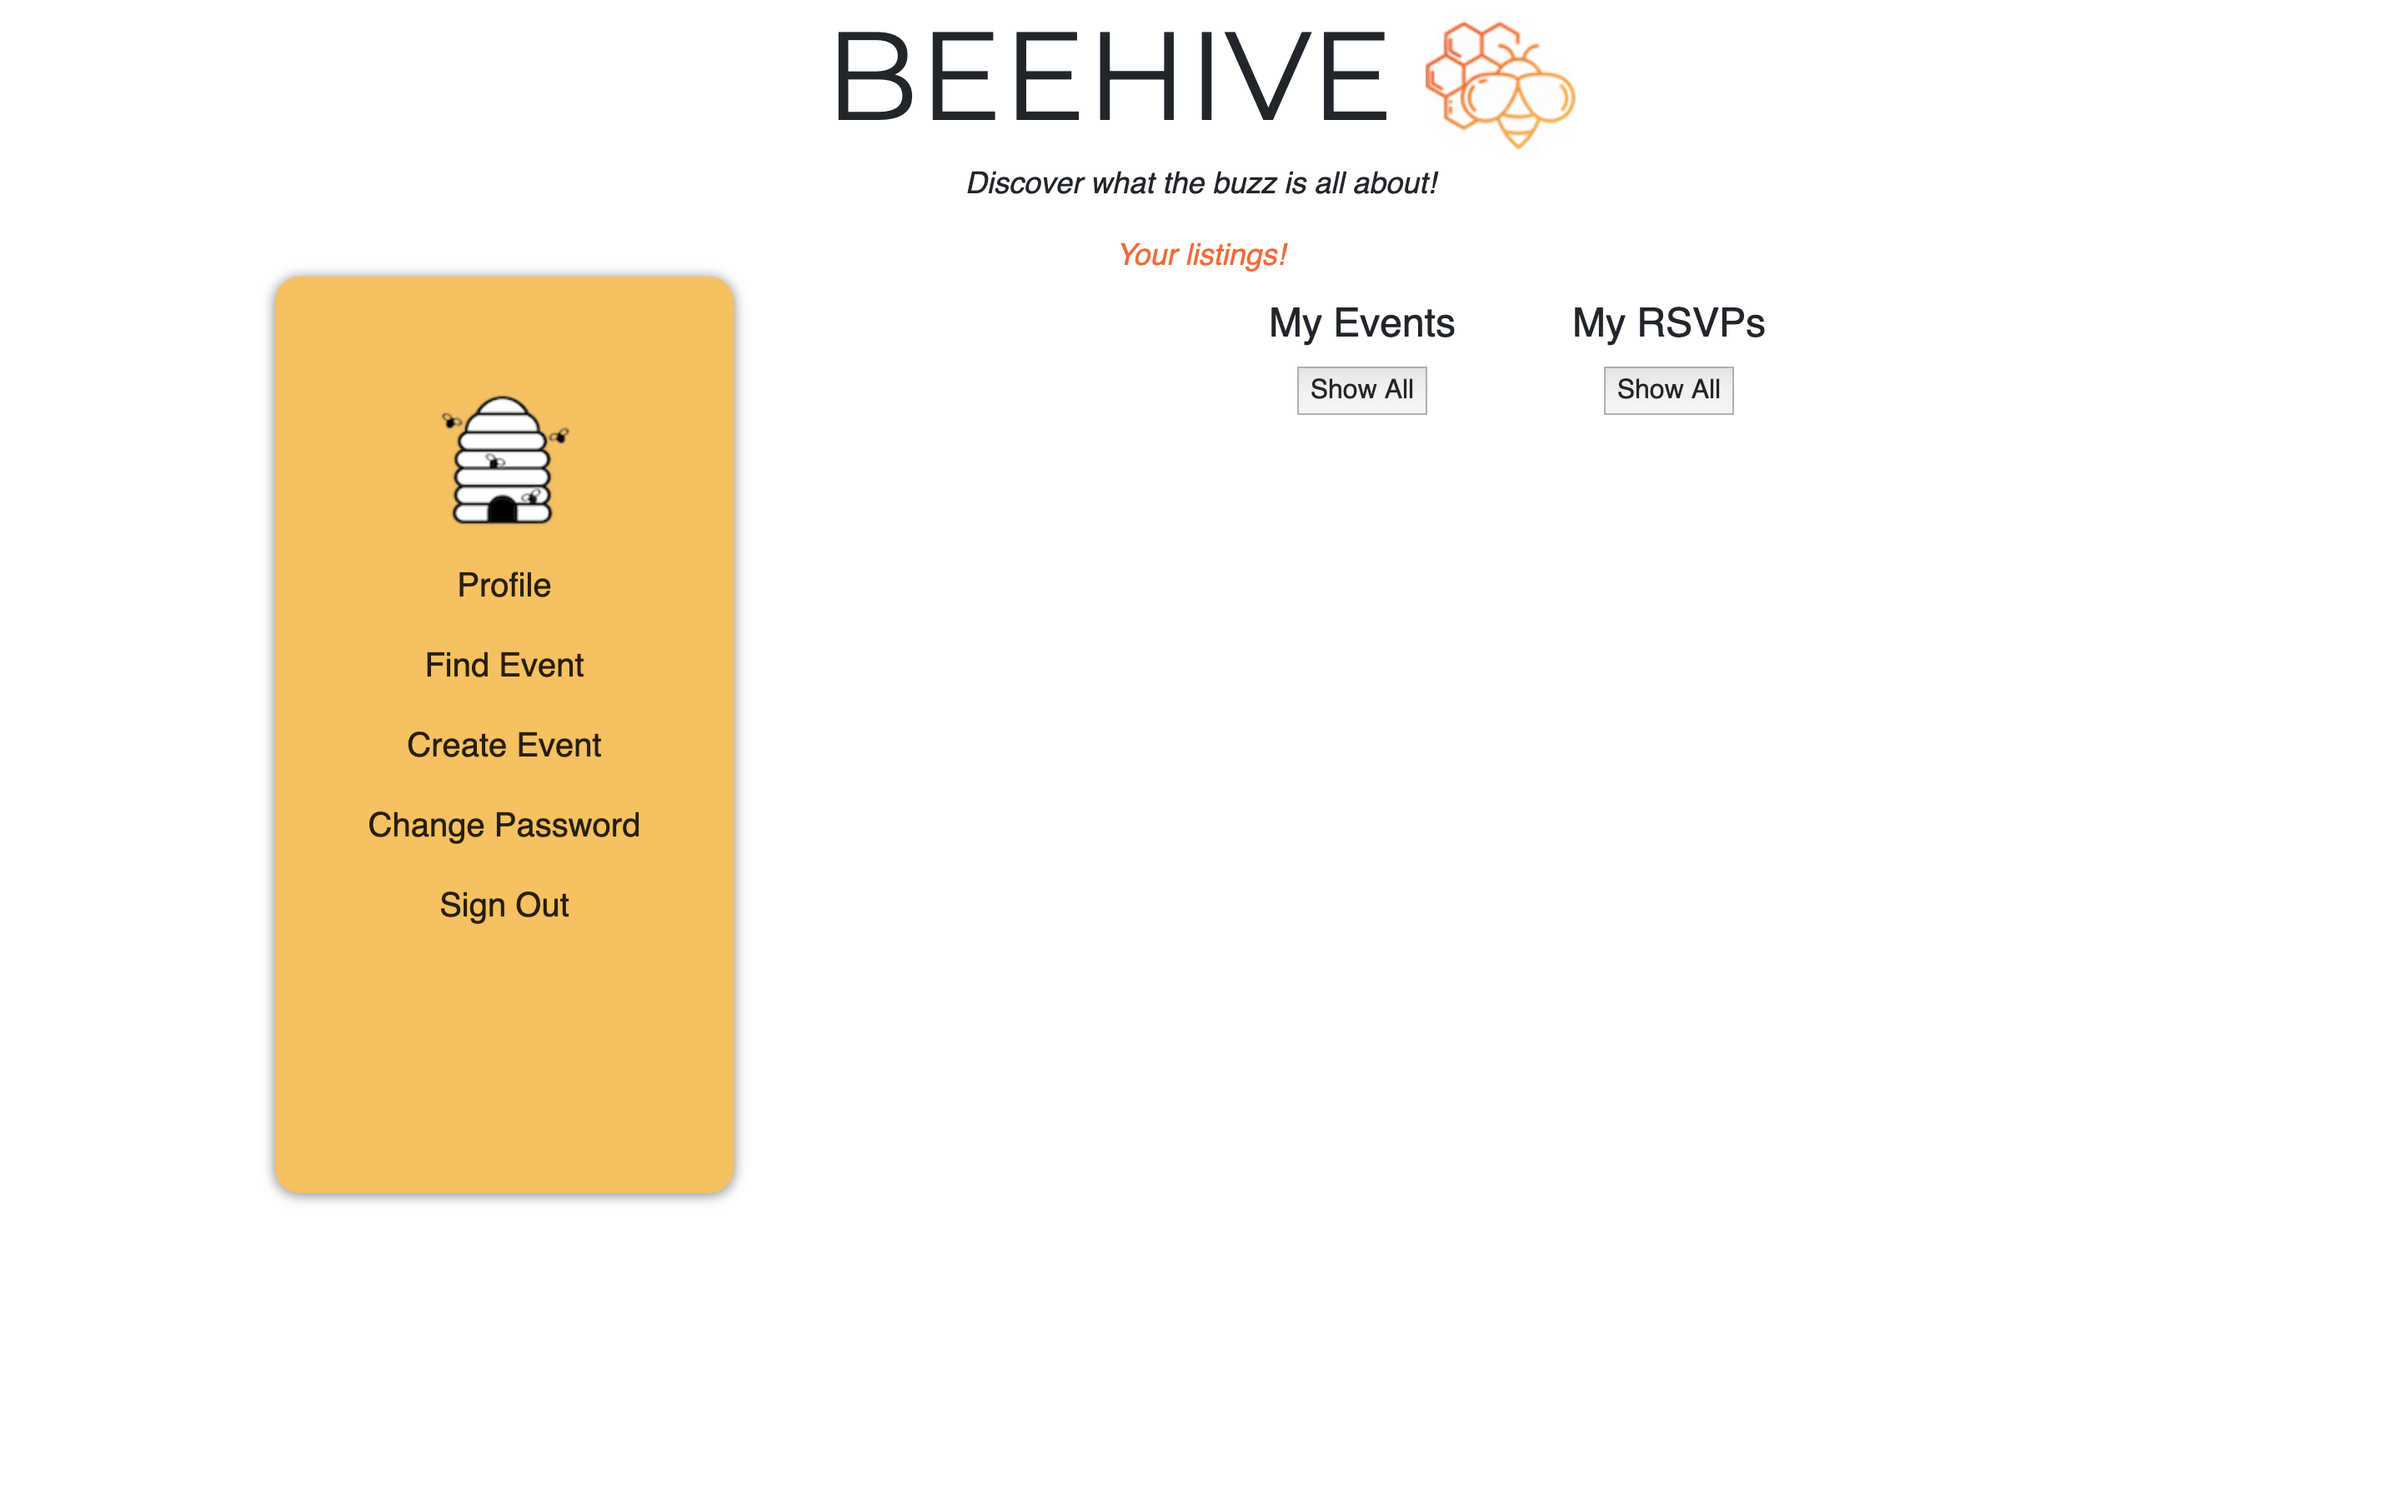
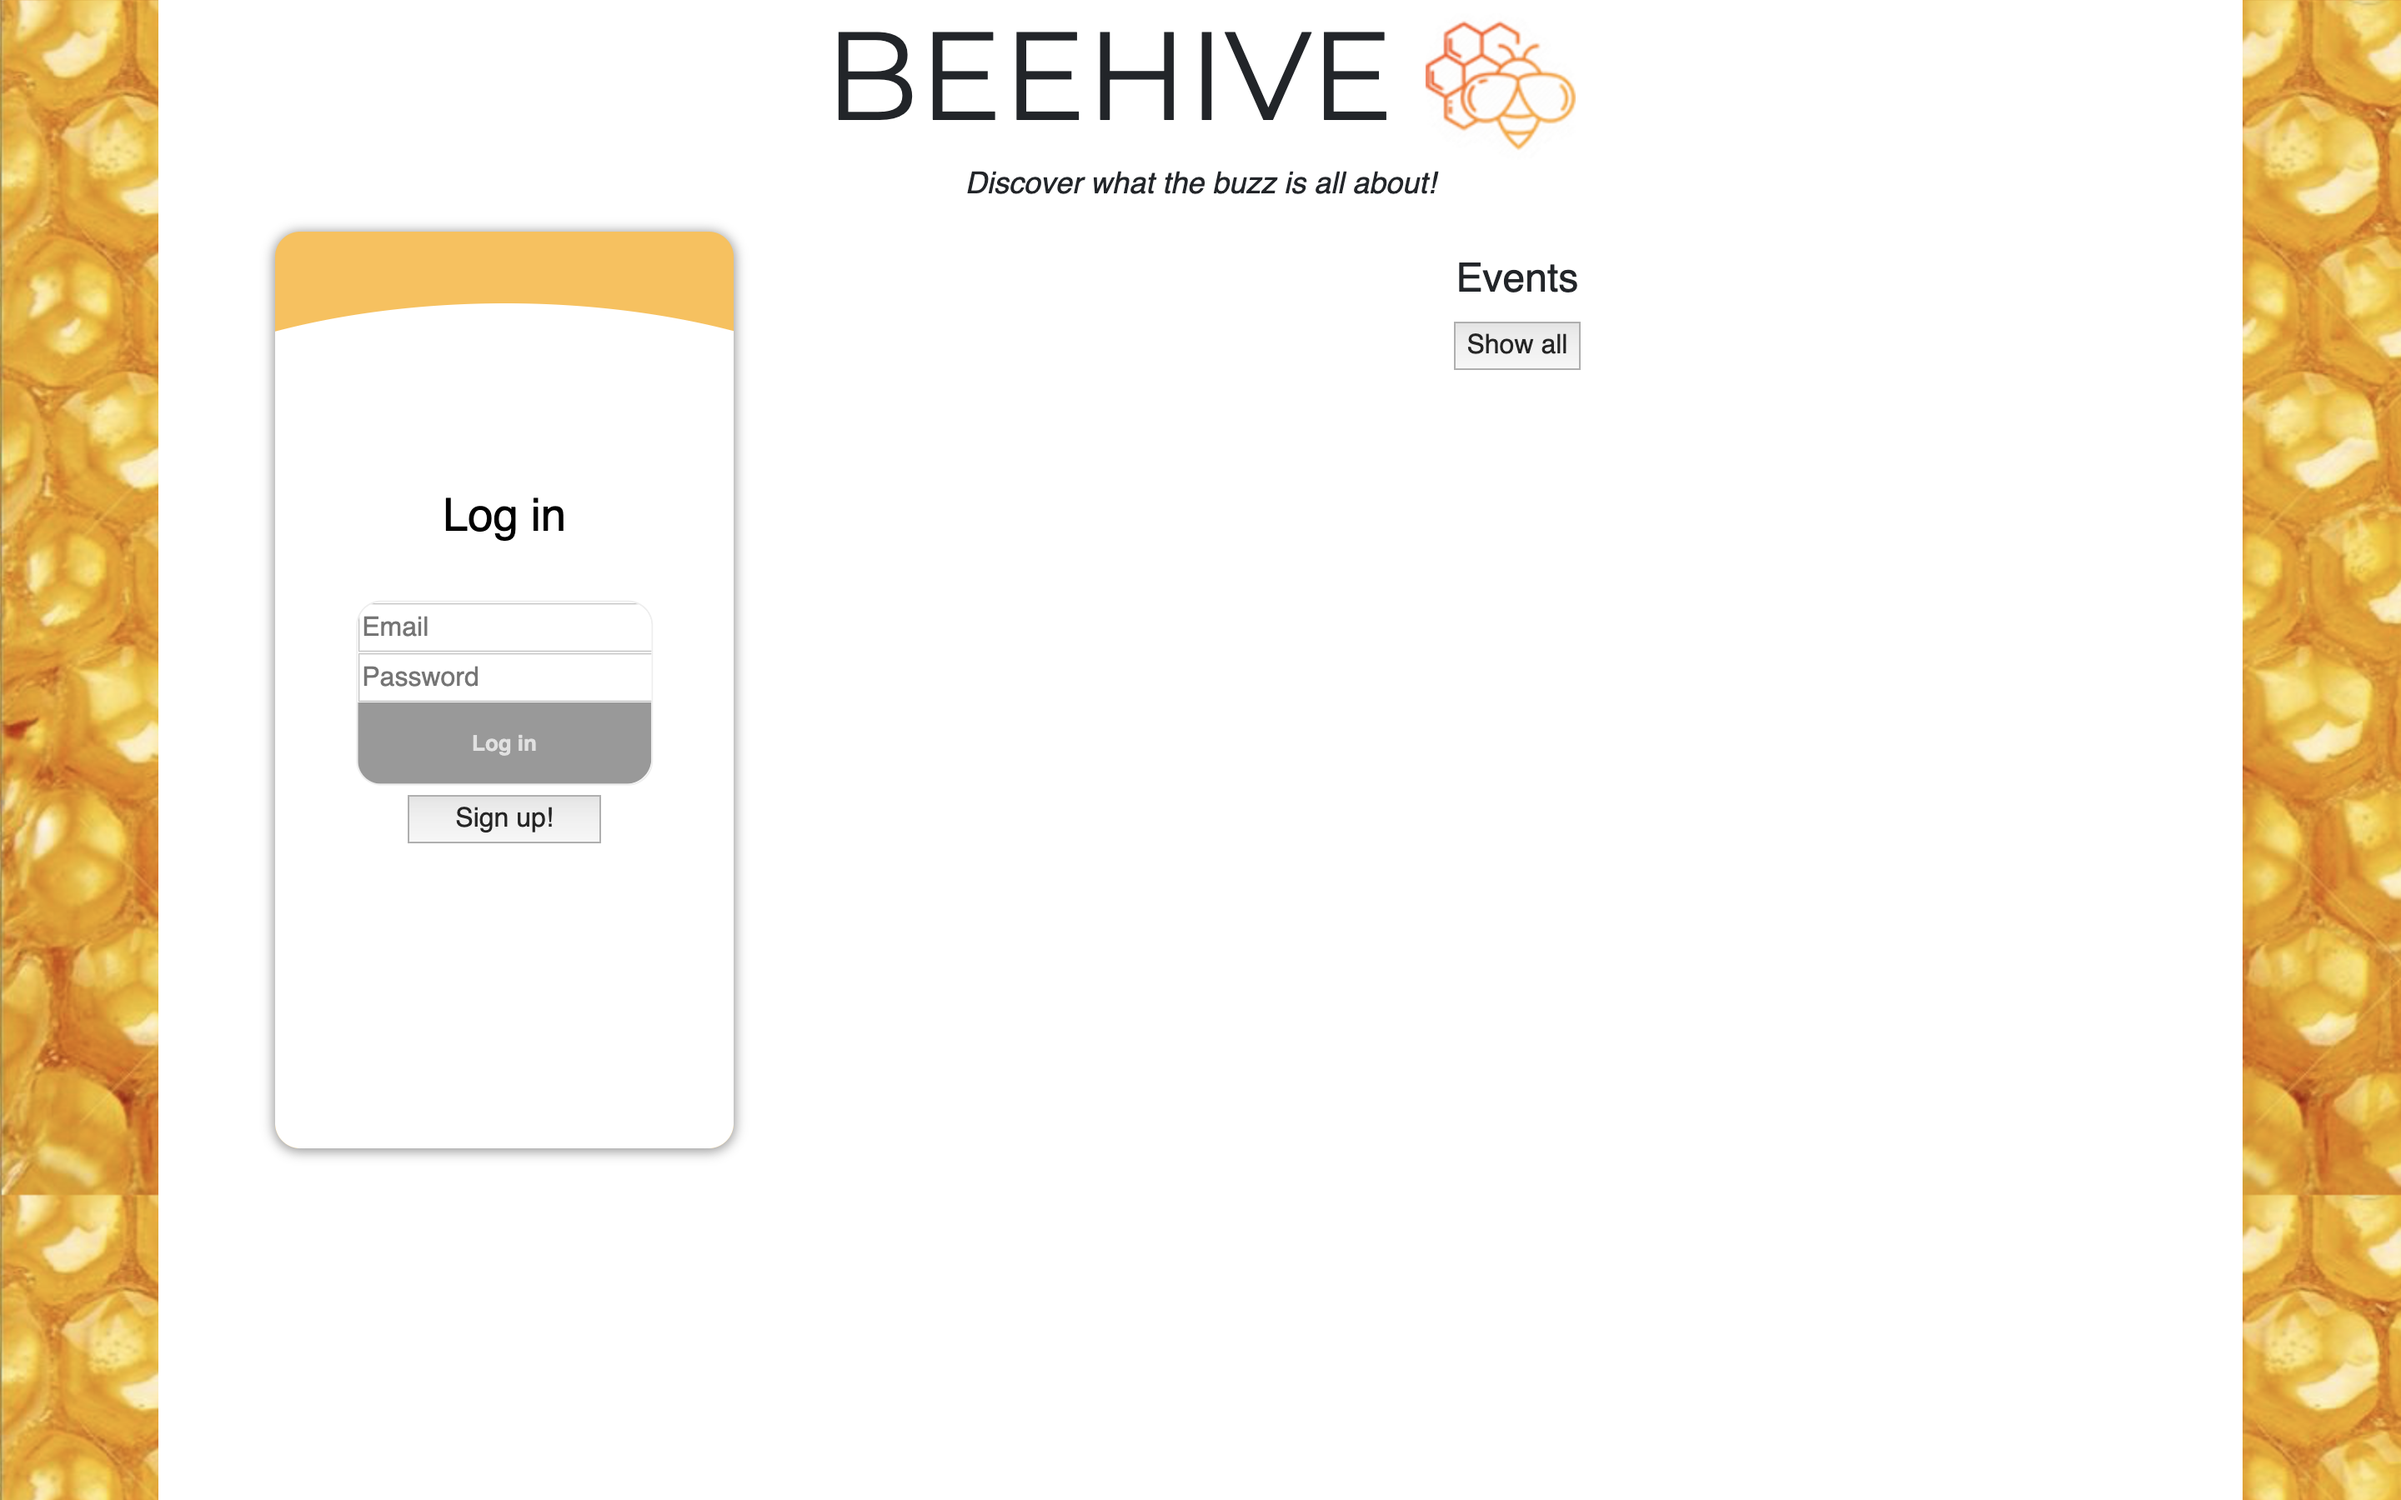
Changed ScreenShot

diff --git a/README.md b/README.md
@@ -2,7 +2,7 @@
 This is a single page applicaton that allows the user to view. In addition, the user can RSVP to events, view all events created by other user, view events they've RSVPed to, and edit or delete events they've created.
 
 ### BeeHive Landing Page
-![Image](ScreenShot.png)
+![Image](ScreenShot2.png)
 
 ## Important Links
   - [Deployed Web Apllication](https://ga-zero-to-hero.github.io/beehive-client/)
